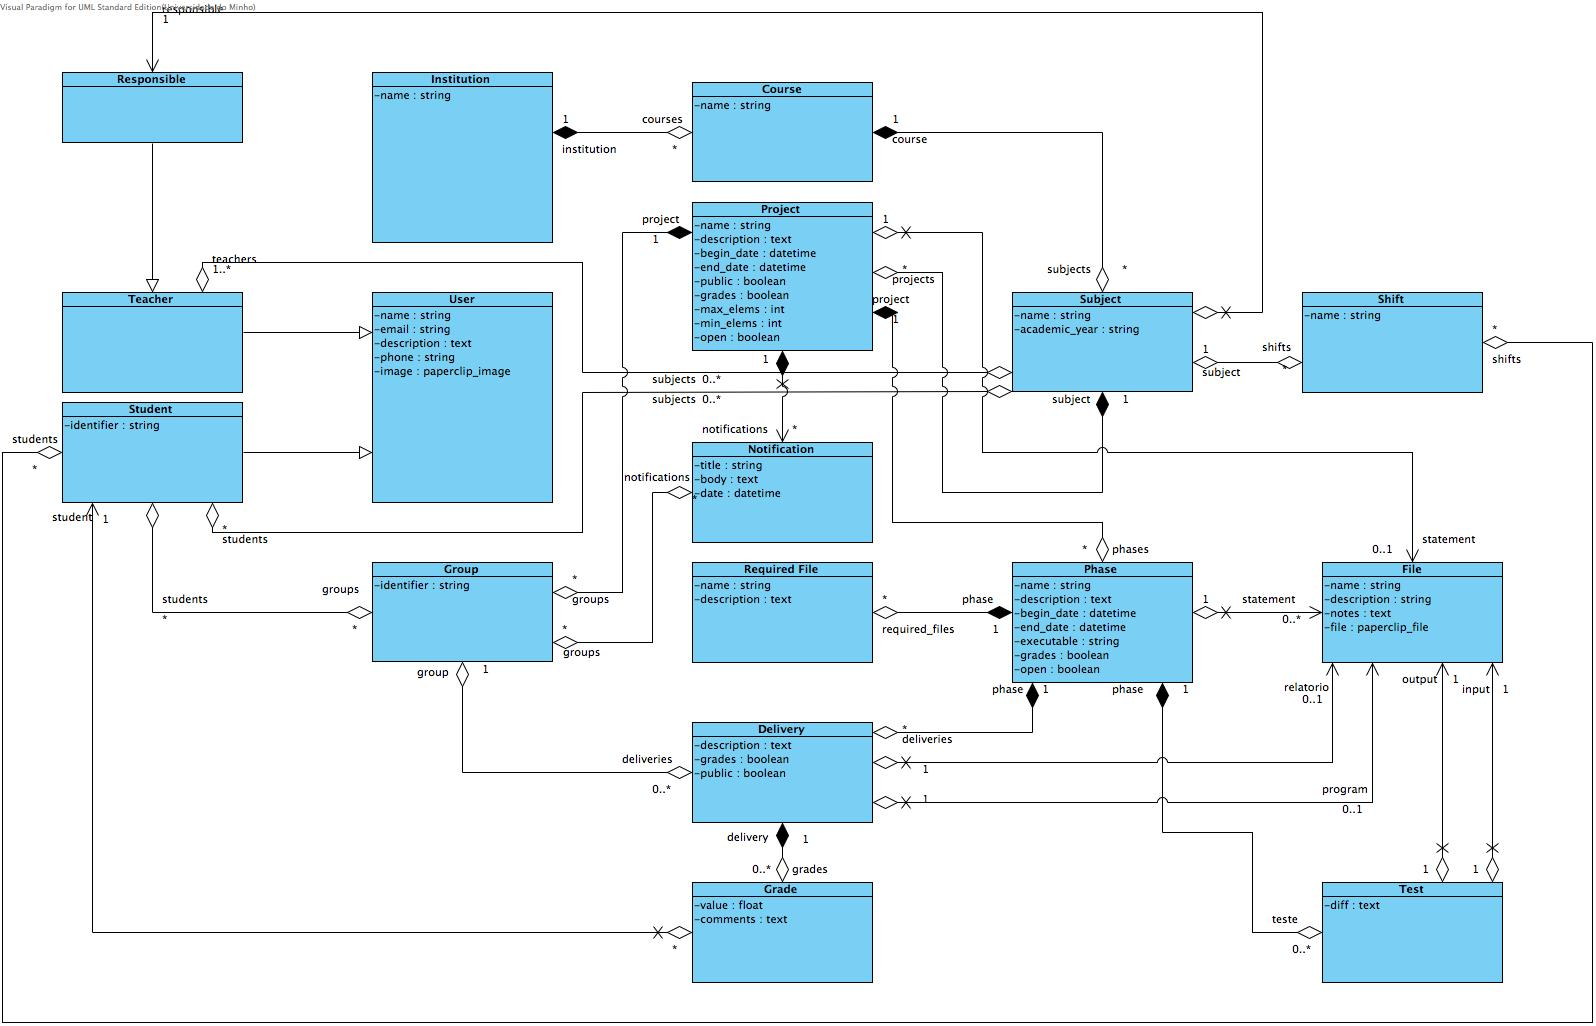
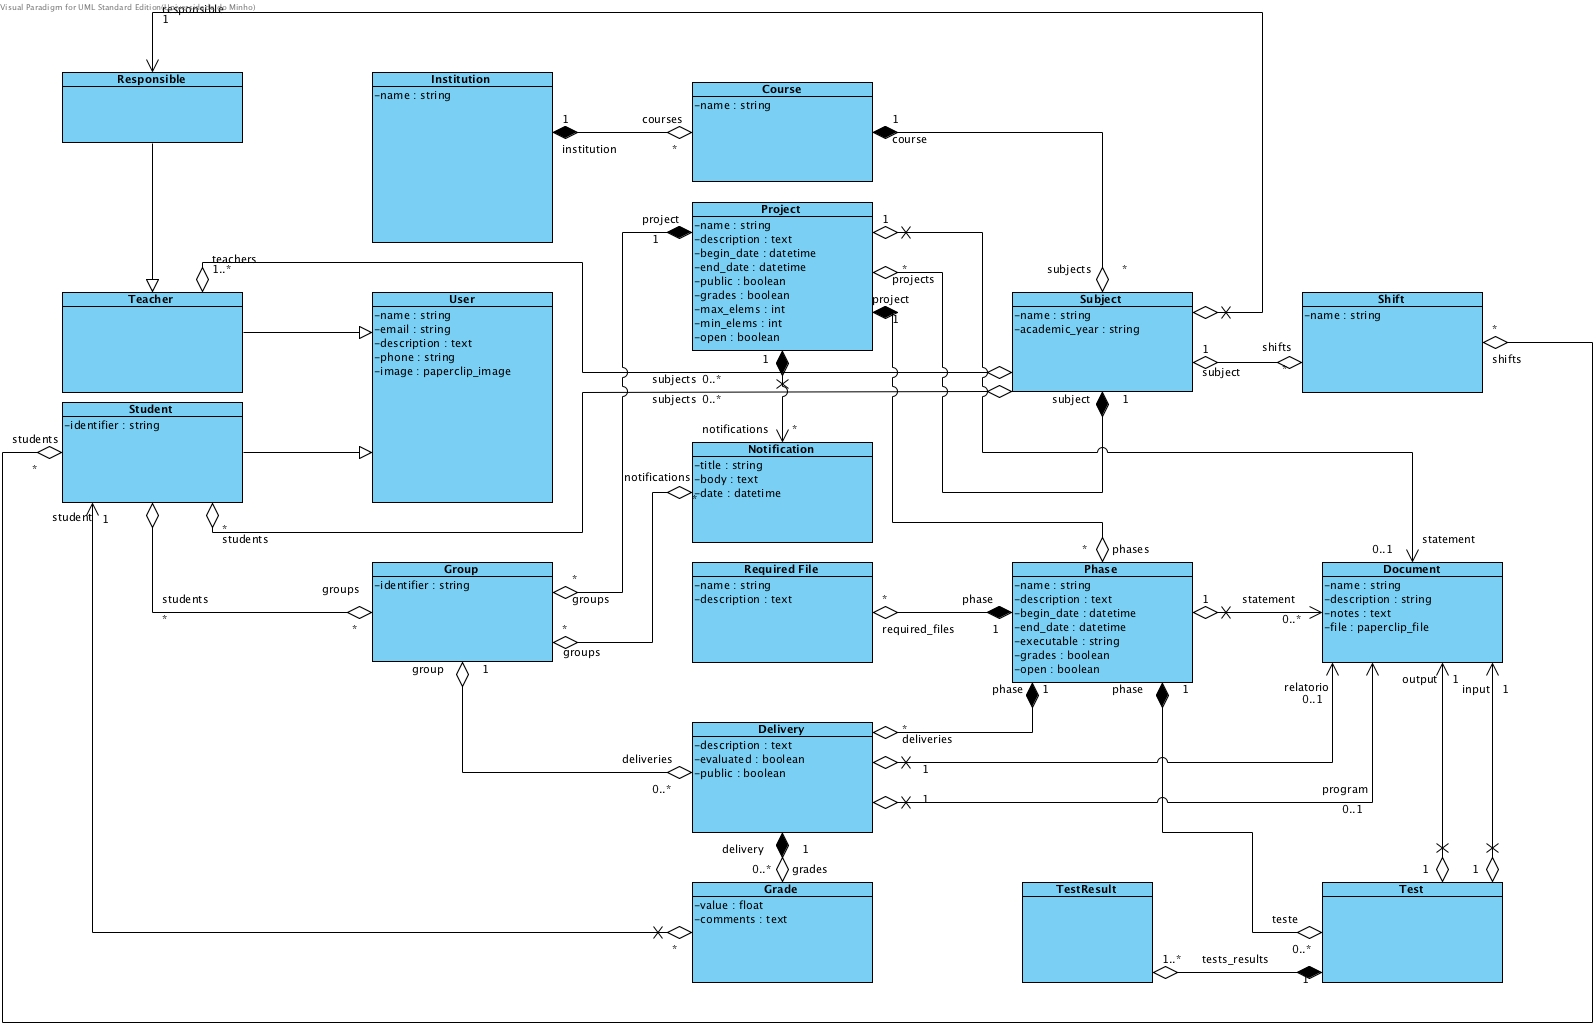
Correções da fase 1

diff --git a/analise_de_requisitos.tex b/analise_de_requisitos.tex
@@ -1,23 +1,24 @@
 \section{Análise de requisitos}
 
 
-Identificado o problema, pretende-se assim desenvolver um sistema de informação para gestão de trabalhos práticos. O sistema oferecerá um conjunto de funcionalidades e facilidades aos docentes e alunos em todo o processo de entrega de um trabalho prático, desde a gestão da unidade curricular até à publicação das avaliações.\\
+Identificado o problema, pretende-se assim desenvolver um sistema de informação para gestão de trabalhos práticos. O sistema oferecerá um conjunto de funcionalidades e facilidades aos docentes e alunos em todo o processo de entrega de um trabalho prático, desde a gestão da unidade curricular até à publicação das avaliações.
 
-Identifica-se à partida 3 grupos de utilizadores com funcionalidades e objetivos diferentes em todo o processo.\\
+Identifica-se à partida 3 grupos de utilizadores com funcionalidades e objetivos diferentes em todo o processo.
 
-O primeiro grupo de utilizadores são os \textbf{alunos}, para estes pretende-se oferecer a possibilidade de submeterem projetos práticos de uma forma simples e facilitada. As submissões poderão ser efetuadas individualmente ou em grupos conforme o especificado pelo docente. O aluno terá acesso a um painel de gestão das suas unidades curriculares e projetos, poderá consultar todas as informações de um projeto e respetivas fases, gerir facilmente os seus grupos de trabalho, consultar o seu histórico de entregas e consultar em diferentes formatos as suas avaliações dos projetos e/ou fases. Pretende-se ainda que o aluno tenha a possibilidade de ser notificado de todas as alterações nos projetos que faz parte, através de avisos do sistema ou emails. Estas notificações serão também importantes para informar o aluno da aproximação dos prazos de entrega dos projetos das suas unidades curriculares.\\
+O primeiro grupo de utilizadores são os \textbf{alunos}, para estes pretende-se oferecer a possibilidade de submeterem projetos práticos de uma forma simples e facilitada. As submissões poderão ser efetuadas individualmente ou em grupos conforme o especificado pelo docente. O aluno terá acesso a um painel de gestão das suas unidades curriculares e projetos, poderá consultar todas as informações de um projeto e respetivas fases, gerir facilmente os seus grupos de trabalho, consultar o seu histórico de entregas e consultar em diferentes formatos as suas avaliações dos projetos e/ou fases. Pretende-se ainda que o aluno tenha a possibilidade de ser notificado de todas as alterações nos projetos que faz parte, através de avisos do sistema ou emails. Estas notificações serão também importantes para informar o aluno da aproximação dos prazos de entrega dos projetos das suas unidades curriculares.
+
 No processo de submissão de um projeto, o sistema, deverá ser capaz de facilitar a criação do \textit{Project Record} do pacote enviado, assim como identificar e notificar falhas na submissão, tais como não conter todos os ficheiros obrigatórios ou não gerar o executável pretendido. Neste caso os alunos poderão receber no email essa informação para assim submeterem uma versão corrigida.
-Um aluno terá também a possibilidade de tornar o projeto desenvolvido público.\\
+Um aluno terá também a possibilidade de tornar o projeto desenvolvido público.
 
 O segundo grupo de utilizadores são os \textbf{docentes}, numa primeira componente estes utilizadores poderão criar e gerir unidades curriculares e todas as informações adjacentes a estas, um docente de uma unidade curricular pode adicionar docentes responsáveis, adicionar alunos e associá-los a diferentes turnos. Dentro da gestão de uma unidade curricular um docente será capaz de criar projetos devidamente documentados (organizados ou não em diferentes fases), podendo ainda especificar ficheiros obrigatórios, executável obrigatório e ficheiros de teste para facilitar a correção dos mesmos. Estes testes serão executados no programa enviado e serão guardadas as diferenças do output obtido para o output esperado. Dentro do painel de gestão de um projeto o docente poderá consultar as entregas dos diferentes grupos e avaliar as entregas por grupo ou individualmente. Depois de avaliadas as entregas, o docente, poderá gerar automaticamente as pautas do projeto e/ou fase e publicar para os alunos da unidade curricular.
-Numa fase final, o docente poderá tornar o projeto (enunciado e especificações do problema) público.\\
+Numa fase final, o docente poderá tornar o projeto (enunciado e especificações do problema) público.
 
-Para além dos docentes e dos alunos, o nosso sistema permitirá uma procura e consulta de projetos públicos desenvolvidos a \textbf{utilizadores não registados}.\\
+Para além dos docentes e dos alunos, o nosso sistema permitirá uma procura e consulta de projetos públicos desenvolvidos a \textbf{utilizadores não registados}.
 
-Pretende-se no desenvolvimento do sistema simplificar todas as tarefas dos utilizadores alvo do sistema, e proporcionar um sistema flexível que possa ser utilizado por um abrangente número de utilizadores.\\
+Pretende-se no desenvolvimento do sistema simplificar todas as tarefas dos utilizadores alvo do sistema, e proporcionar um sistema flexível que possa ser utilizado por um abrangente número de utilizadores.
 
-Nesse seguimento o sistema procurará ser flexível, não se restringindo a apenas uma abordagem nem sendo demasiado genérico, procurar-se-á definir abordagens mais específicas, mas sempre com opções mais genéricas para englobar casos menos comuns. É exemplo disso a geração automática do \textit{Project Record} do pacote enviado, em casos mais específicos o ficheiro poderá ser entregue pelo utilizador, no entanto em outros casos torna-se necessário auxiliar na geração desse mesmo ficheiro para assegurar que todos os pacotes enviados estão em conformidade com a estrutura esperada de um pacote. O sistema também procurará simplificar processos organizacionais, como facilitar a criação de uma unidade curricular identificando apenas nome, instituição, curso e ano letivo. O facto de uma unidade curricular estar associada a um ano letivo ajuda a nível organizacional e permite que não seja necessária a transferência de alunos e docentes entre anos letivos. Procurará também simplificar processos de validação das entregas através das restrições de ficheiros obrigatórios e nome do executável. Ser capaz de automatizar a avaliação através dos testes no sistema e geração de pautas automáticas e de gerir mais facilmente grupos de trabalho e respetivas entregas.\\
+Nesse seguimento o sistema procurará ser flexível, não se restringindo a apenas uma abordagem nem sendo demasiado genérico, procurar-se-á definir abordagens mais específicas, mas sempre com opções mais genéricas para englobar casos menos comuns. É exemplo disso a geração automática do \textit{Project Record} do pacote enviado, em casos mais específicos o ficheiro poderá ser entregue pelo utilizador, no entanto em outros casos torna-se necessário auxiliar na geração desse mesmo ficheiro para assegurar que todos os pacotes enviados estão em conformidade com a estrutura esperada de um pacote. O sistema também procurará simplificar processos organizacionais, como facilitar a criação de uma unidade curricular identificando apenas nome, instituição, curso e ano letivo. O facto de uma unidade curricular estar associada a um ano letivo ajuda a nível organizacional e permite que não seja necessária a transferência de alunos e docentes entre anos letivos. Procurará também simplificar processos de validação das entregas através das restrições de ficheiros obrigatórios e nome do executável. Ser capaz de automatizar a avaliação através dos testes no sistema e geração de pautas automáticas e de gerir mais facilmente grupos de trabalho e respetivas entregas.
 
-O objetivo final é lançar um sistema bem focado onde cada grupo de utilizadores execute com facilidade as suas tarefas principais, perdendo o menor tempo possível em problemas secundários. 
+O objetivo final é lançar um sistema bem focado onde cada grupo de utilizadores execute com facilidade as suas tarefas principais, perdendo o menor tempo possível em problemas secundários.
 
 \newpage

diff --git a/modelo_de_dados.tex b/modelo_de_dados.tex
@@ -9,7 +9,7 @@ Pode-se classificar como domínio do sistema, o conjunto de características que
 
 Pode-se consultar na Figura ~\ref{fig:modelo-dominio} os termos do sistema e as relações existentes entre esses termos.
 
-\begin{figure}[H] 
+\begin{figure}[H]
   \centering
   \includegraphics[width=1\textwidth,center]{images/modelo_dados/modelo-dominio}
   \caption{Modelo de domínio}
@@ -20,11 +20,11 @@ Pode-se consultar na Figura ~\ref{fig:modelo-dominio} os termos do sistema e as 
 
 Para representar a estrutura e relações das classes que servirão de modelo para os objetos do sistema, utilizaremos um \textbf{Diagrama de Classes}. Os diagramas de Classes são extremamente úteis para o desenvolvimento de sistemas, pois definem todas as classes que irão constituir o sistema e são uma excelente base para outras fases de planeamento e para o desenvolvimento.
 
-Este tipo de diagramas permitem verificar como cada classe se relaciona com as outras, tendo como objetivo, a satisfação dos requisitos funcionais definidos para o sistema em estudo. 
+Este tipo de diagramas permitem verificar como cada classe se relaciona com as outras, tendo como objetivo, a satisfação dos requisitos funcionais definidos para o sistema em estudo.
 
 Na Figura ~\ref{fig:diagrama-classes} podem-se ver representadas todas as classes e as suas relações que servirão como modelo para os objetos do sistema.
 
-\begin{figure}[H] 
+\begin{figure}[H]
   \centering
   \includegraphics[width=1\textwidth,center]{images/modelo_dados/diagrama-classes}
   \caption{Diagrama de Classes}
@@ -33,59 +33,59 @@ Na Figura ~\ref{fig:diagrama-classes} podem-se ver representadas todas as classe
 
 \subsection{Gramática Independente de Contexto}
 
-Alternativamente ao Diagrama de Classes, definiu-se o sistema numa gramática independente de contexto na forma \textbf{Extended Backus-Naur(EBNF)}, representada de seguida:
+Alternativamente ao Diagrama de Classes, definiu-se o sistema numa gramática independente de contexto na forma \textbf{Extended Backus-Naur (EBNF)}, representada de seguida:
 
 \begin{spverbatim}
-Institution : Course+ name=STRING 
+Institution : Course+ name=STRING
             ;
 
-Course : Subject+ name=STRING 
+Course : Subject+ name=STRING
        ;
 
-Subject : name=STRING academic_year=STRING Responsible Shift+ Teacher+ Student+ Project+ 
+Subject : name=STRING academic_year=STRING Responsible Shift+ Teacher+ Student+ Project+
         ;
 
-Project : name=STRING description=TEXT begin_date=DATETIME end_date=DATETIME public=BOOLEAN grades=BOOLEAN max_elems=INT min_elems=INT open=BOOLEAN Group+ Notification+ Phase+ statement=File?
+Project : name=STRING description=TEXT begin_date=DATETIME end_date=DATETIME public=BOOLEAN grades=BOOLEAN max_elems=INT min_elems=INT open=BOOLEAN Group+ Notification+ Phase+ statement=Document?
         ;
 
-Notification : title=STRING body=TEXT date=DATETIME Group+ 
+Notification : title=STRING body=TEXT date=DATETIME Group+
              ;
 
-Shift : name=STRING Subject Student* 
+Shift : name=STRING Subject Student*
       ;
 
-Phase : name=STRING description=TEXT begin_date=DATETIME end_date=DATETIME executable=STRING grades=BOOLEAN open=BOOLEAN File* statement=File? Required_File+ Delivery+ Test* 
+Phase : name=STRING description=TEXT begin_date=DATETIME end_date=DATETIME executable=STRING grades=BOOLEAN open=BOOLEAN Document* statement=Document? Required_Document+ Delivery+ Test*
       ;
 
-File : name=STRING description=STRING notes=TEXT file=PAPERCLIP_FILE 
+Document : name=STRING description=STRING notes=TEXT file=PAPERCLIP_FILE
      ;
 
-Test : diff=TEXT input=File output=File 
+Test : diff=TEXT input=Document output=Document
      ;
 
-Required_File : name=STRING description=TEXT 
+Required_Document : name=STRING description=TEXT
               ;
 
-Delivery : description=TEXT grades=BOOLEAN public=BOOLEAN Grade* Group 
+Delivery : description=TEXT evaluated=BOOLEAN public=BOOLEAN Grade* Group
          ;
 
-Grade : value=FLOAT comments=TEXT Student 
+Grade : value=FLOAT comments=TEXT Student
       ;
 
-Group : identifier=STRING Notification+ Delivery* Student+ 
+Group : identifier=STRING Notification+ Delivery* Student+
       ;
 
-Student : User identifier=STRING Shift+ Group+ Subject+ 
+Student : User identifier=STRING Shift+ Group+ Subject+
         ;
 
-Teacher : User Subject+ 
+Teacher : User Subject+
         ;
 
-User : name=STRING email=STRING description=TEXT phone=STRING image=PAPERCLIP_FILE 
+User : name=STRING email=STRING description=TEXT phone=STRING image=PAPERCLIP_FILE
      ;
 
-Responsible : Teacher 
-            ;            
+Responsible : Teacher
+            ;
 \end{spverbatim}
 
 

diff --git a/anexos.tex b/anexos.tex
@@ -1,7 +1,10 @@
-\section{Anexos}
-\begin{figure}[H] 
-	\centering
-	\includegraphics[width=0.3\textwidth]{images/plano_de_trabalho/gannt_0.png}
- 	\caption{Diagrama de Gantt completo}
- 	\label{fig: workplan0}
-\end{figure}
+\appendix
+\begin{landscape}
+	\section{Diagrama de Gantt}
+	\begin{figure}[H]
+		\centering
+		\includegraphics[width=1.7\textwidth]{images/plano_de_trabalho/gannt_0.png}
+	 	\caption{Diagrama de Gantt completo}
+	 	\label{fig: workplan0}
+	\end{figure}
+\end{landscape}

diff --git a/main.tex b/main.tex
@@ -9,6 +9,8 @@
 \usepackage{spverbatim}
 \usepackage{hyperref}
 \usepackage{enumitem}
+\usepackage{indentfirst}
+\usepackage{lscape}
 
 \setdescription{leftmargin=\parindent,labelindent=\parindent}
 
